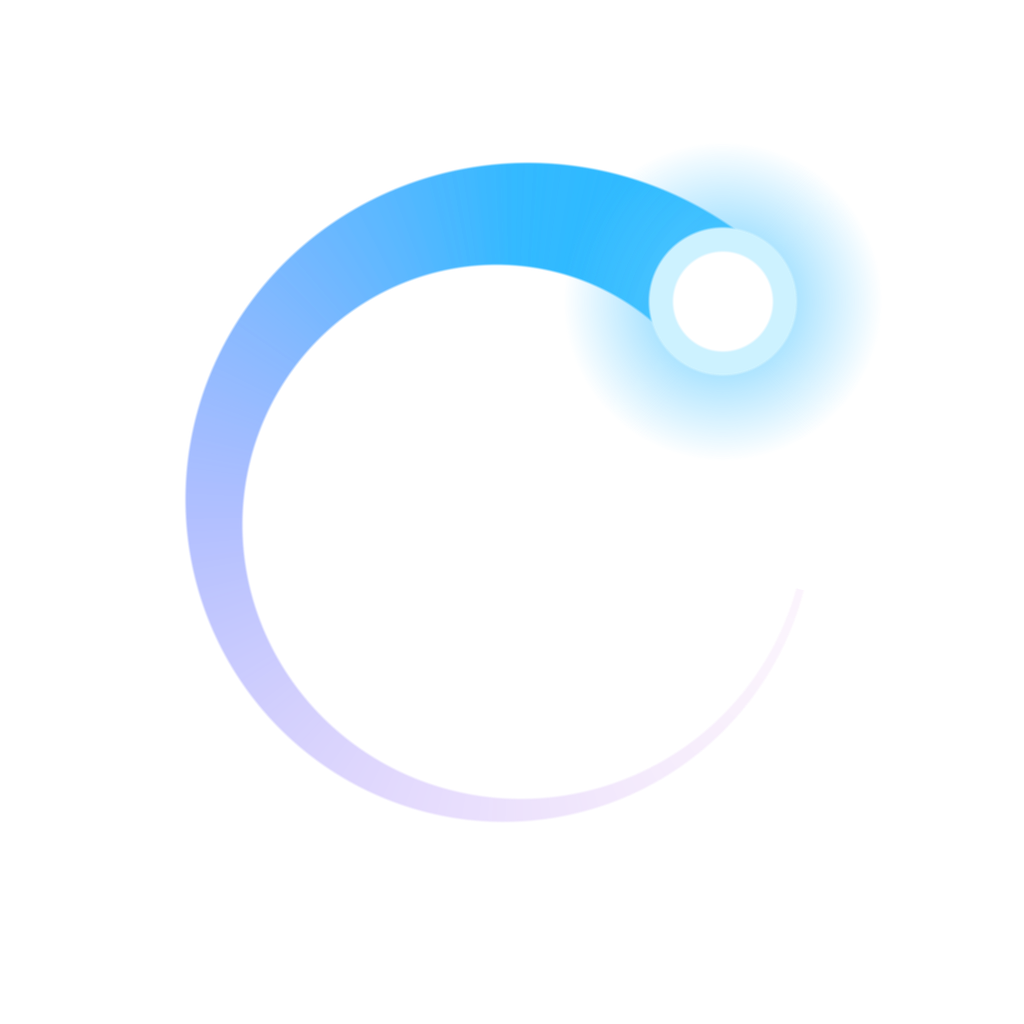
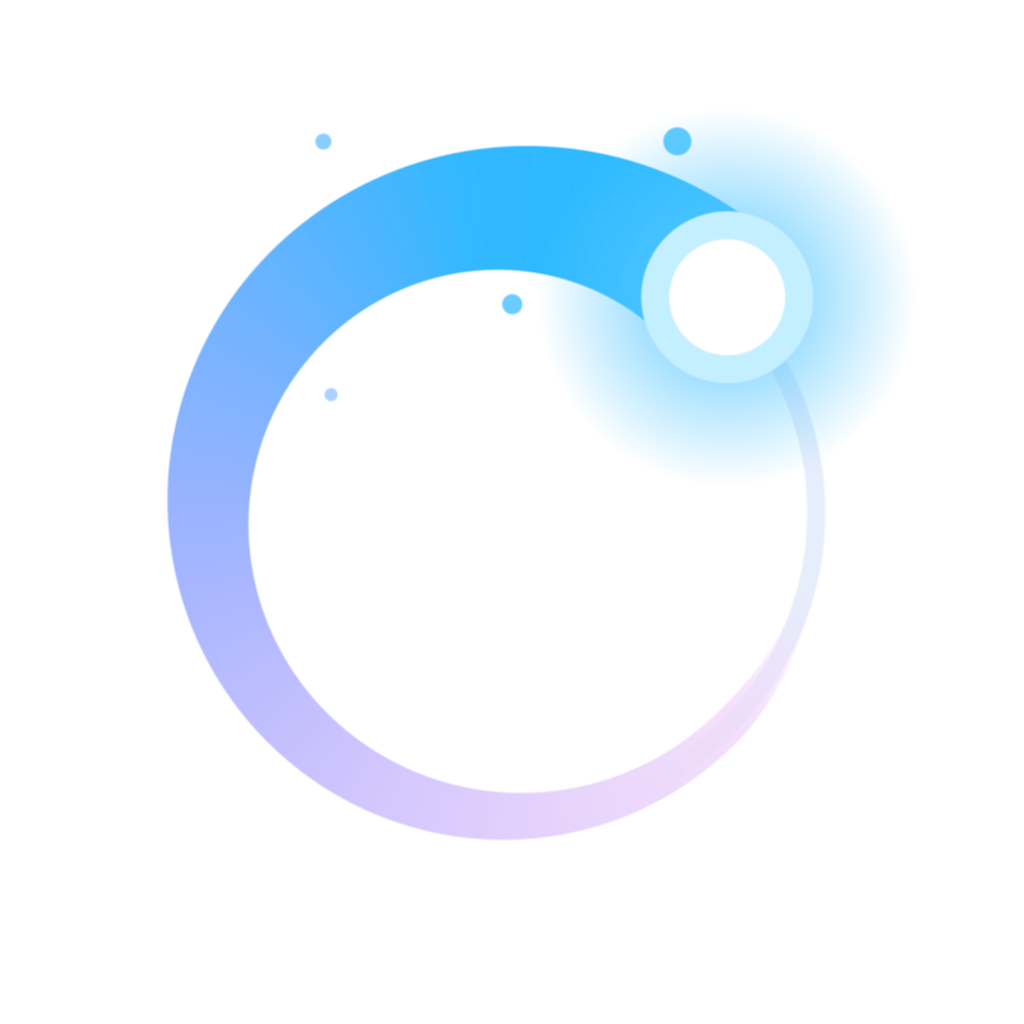
图标加淡色轨道环闭合整圈，拖尾加粗末端平滑并入轨道，彗头辉光放大并沿途加光点

diff --git a/assets/render_icon.py b/assets/render_icon.py
@@ -18,17 +18,17 @@ ASSETS = Path(__file__).resolve().parent
 
 S = 2048                  # supersampled square, downsampled 2x at the end
 CX = CY = S / 2
-R = 298.0 * 2
+R = 304.0 * 2
 HEAD_DEG = -45.0
 TAIL_SWEEP = 300.0
-W_HEAD, W_TAIL = 128.0 * 2, 8.0 * 2
+W_HEAD, W_TAIL = 148.0 * 2, 30.0 * 2
 EDGE = 2.4                # soft-edge half-width in supersampled pixels
 
 STOPS = [
-    (0.00, (0xC3, 0x4C, 0xD6)),   # magenta, fades out
-    (0.30, (0x8A, 0x5C, 0xF6)),   # violet
-    (0.55, (0x4C, 0x6F, 0xFF)),   # blue
-    (0.85, (0x00, 0xA8, 0xFF)),   # azure (the app's running colour)
+    (0.00, (0xC9, 0x43, 0xDE)),   # magenta, fades out
+    (0.28, (0x8B, 0x53, 0xF7)),   # violet
+    (0.52, (0x47, 0x6B, 0xFF)),   # blue
+    (0.82, (0x00, 0xA8, 0xFF)),   # azure (the app's running colour)
     (1.00, (0x2E, 0xBE, 0xFF)),   # sky blue into the head
 ]
 
@@ -43,27 +43,38 @@ t = 1.0 - delta / TAIL_SWEEP
 in_tail = delta <= TAIL_SWEEP
 tc = np.clip(t, 0.0, 1.0)
 
-width = W_TAIL + (W_HEAD - W_TAIL) * tc ** 1.5
+TRACK_W = 18.0 * 2
+
+# --- tail alpha, computed first so the track can yield to it -----------------
+# Over the last tenth the band narrows into the track and fades to nothing,
+# so the tip merges instead of ending in a squared-off cut.
+width = W_TAIL + (W_HEAD - W_TAIL) * tc ** 1.4
+k_tip = np.clip(tc / 0.10, 0.0, 1.0)
+k_tip = k_tip * k_tip * (3 - 2 * k_tip)
+width = TRACK_W + (width - TRACK_W) * k_tip
 dist = np.abs(r - R)
 coverage = np.clip((width / 2 + EDGE - dist) / (2 * EDGE), 0.0, 1.0)
-fade = 0.06 + 0.94 * tc ** 1.5
+fade = (0.13 + 0.87 * tc ** 1.3) * k_tip ** 0.7
 tail_a = np.where(in_tail, coverage * fade, 0.0)
 
-# Colour along the tail from the gradient stops.
-tail_rgb = np.zeros((S, S, 3))
-for (t0, c0), (t1, c1) in zip(STOPS, STOPS[1:]):
-    k = np.clip((tc - t0) / (t1 - t0), 0.0, 1.0)
-    seg = (tc >= t0) & (tc <= t1) if t1 < 1.0 else (tc >= t0)
-    for ch in range(3):
-        tail_rgb[..., ch] = np.where(seg, c0[ch] + (c1[ch] - c0[ch]) * k,
-                                     tail_rgb[..., ch])
+# --- orbit track: a faint complete ring under the comet ----------------------
+# It closes the circle visually where the tail has faded out, which is what
+# keeps the icon from reading as a lone crescent. Where the tail actually
+# covers it the track must vanish, or its extra alpha shows as a darker
+# stripe running inside the band.
+track_a = np.clip((TRACK_W / 2 + EDGE - dist) / (2 * EDGE), 0.0, 1.0) * 0.30
+track_a = track_a * np.clip(1.0 - tail_a / 0.22, 0.0, 1.0)
+track_rgb = np.zeros((S, S, 3))
+track_rgb[..., 0] = 0xAA
+track_rgb[..., 1] = 0xC2
+track_rgb[..., 2] = 0xF2
 
-rgb = tail_rgb.copy()
-alpha = tail_a.copy()
+rgb = track_rgb.copy()
+alpha = track_a.copy()
 
 
 def over(a_new, rgb_new):
-    """Composite a premultiplied-style layer over the accumulated image."""
+    """Composite a straight-alpha layer over the accumulated image."""
     global rgb, alpha
     out_a = a_new + alpha * (1 - a_new)
     safe = np.where(out_a == 0, 1, out_a)
@@ -73,16 +84,64 @@ def over(a_new, rgb_new):
     alpha = out_a
 
 
+# --- tail --------------------------------------------------------------------
+# Colour along the tail from the gradient stops.
+tail_rgb = np.zeros((S, S, 3))
+for (t0, c0), (t1, c1) in zip(STOPS, STOPS[1:]):
+    k = np.clip((tc - t0) / (t1 - t0), 0.0, 1.0)
+    seg = (tc >= t0) & (tc <= t1) if t1 < 1.0 else (tc >= t0)
+    for ch in range(3):
+        tail_rgb[..., ch] = np.where(seg, c0[ch] + (c1[ch] - c0[ch]) * k,
+                                     tail_rgb[..., ch])
+
+over(tail_a, [tail_rgb[..., 0], tail_rgb[..., 1], tail_rgb[..., 2]])
+
+
+def colour_at(t):
+    for (t0, c0), (t1, c1) in zip(STOPS, STOPS[1:]):
+        if t <= t1:
+            k = 0 if t1 == t0 else (t - t0) / (t1 - t0)
+            return tuple(a + (b - a) * k for a, b in zip(c0, c1))
+    return STOPS[-1][1]
+
+
+def angle(t):
+    return HEAD_DEG - TAIL_SWEEP * (1 - t)
+
+
+def disc_at(cx, cy, radius, colour, a_max=1.0):
+    d = np.hypot(xx - cx, yy - cy)
+    a = np.clip((radius + EDGE - d) / (2 * EDGE), 0.0, 1.0) * a_max
+    over(a, [np.full((S, S), c) for c in colour])
+
+
+# --- sparkles in the wake ----------------------------------------------------
+# (position along the tail, radial offset from the ring, radius, opacity).
+# Colours follow the tail at that point, lightened toward white.
+SPARKS = [
+    (0.93,  102.0, 14.0, 0.95),
+    (0.85,  -96.0, 10.0, 0.80),
+    (0.76,  112.0,  8.0, 0.65),
+    (0.66,  -88.0,  6.5, 0.50),
+]
+for st, off, rad, a_max in SPARKS:
+    ang = np.radians(angle(st))
+    scx = CX + (R + off * 2) * np.cos(ang)
+    scy = CY + (R + off * 2) * np.sin(ang)
+    c = tuple(v + (255 - v) * 0.25 for v in colour_at(st))
+    disc_at(scx, scy, rad * 2, c, a_max)
+
+# --- head --------------------------------------------------------------------
 hx = CX + R * np.cos(np.radians(HEAD_DEG))
 hy = CY + R * np.sin(np.radians(HEAD_DEG))
 hd = np.hypot(xx - hx, yy - hy)
 
-# Glow: 0 -> 0.95, 0.45 -> 0.5, 1 -> 0 over radius 160, colour shifting
+# Glow: 0 -> 0.95, 0.45 -> 0.55, 1 -> 0 over the glow radius, colour shifting
 # from pale to saturated cyan.
-gr = 160.0 * 2
+gr = 190.0 * 2
 k = np.clip(hd / gr, 0.0, 1.0)
-glow_a = np.where(k < 0.45, 0.95 + (0.5 - 0.95) * (k / 0.45),
-                  0.5 * (1 - (k - 0.45) / 0.55))
+glow_a = np.where(k < 0.45, 0.95 + (0.55 - 0.95) * (k / 0.45),
+                  0.55 * (1 - (k - 0.45) / 0.55))
 glow_a = np.clip(glow_a, 0.0, 1.0)
 mix = np.clip(k / 0.45, 0.0, 1.0)
 glow_rgb = [np.array(0xBF + (0x59 - 0xBF) * mix),
@@ -90,14 +149,8 @@ glow_rgb = [np.array(0xBF + (0x59 - 0xBF) * mix),
             np.full_like(mix, 0xFF)]
 over(glow_a, glow_rgb)
 
-
-def disc(radius, colour):
-    a = np.clip((radius * 2 + EDGE - hd) / (2 * EDGE), 0.0, 1.0)
-    over(a, [np.full((S, S), c) for c in colour])
-
-
-disc(74.0, (0xCD, 0xF2, 0xFF))
-disc(50.0, (0xFF, 0xFF, 0xFF))
+disc_at(hx, hy, 86.0 * 2, (0xC4, 0xEF, 0xFF))
+disc_at(hx, hy, 58.0 * 2, (0xFF, 0xFF, 0xFF))
 
 art = np.dstack([rgb, alpha[..., None] * 255]).astype(np.uint8)
 layer = Image.fromarray(art).resize((1024, 1024), Image.LANCZOS)
@@ -114,8 +167,8 @@ draw.rounded_rectangle([margin, margin, 4096 - margin, 4096 - margin],
                        radius=RADIUS * 4, fill=(255, 255, 255, 255))
 card = big.resize((1024, 1024), Image.LANCZOS)
 
-inner = layer.resize((760, 760), Image.LANCZOS)
-card.alpha_composite(inner, ((1024 - 760) // 2, (1024 - 760) // 2))
+inner = layer.resize((790, 790), Image.LANCZOS)
+card.alpha_composite(inner, ((1024 - 790) // 2, (1024 - 790) // 2))
 flat_path = ASSETS / "icon.png"
 card.save(flat_path)
 print("wrote", flat_path)
